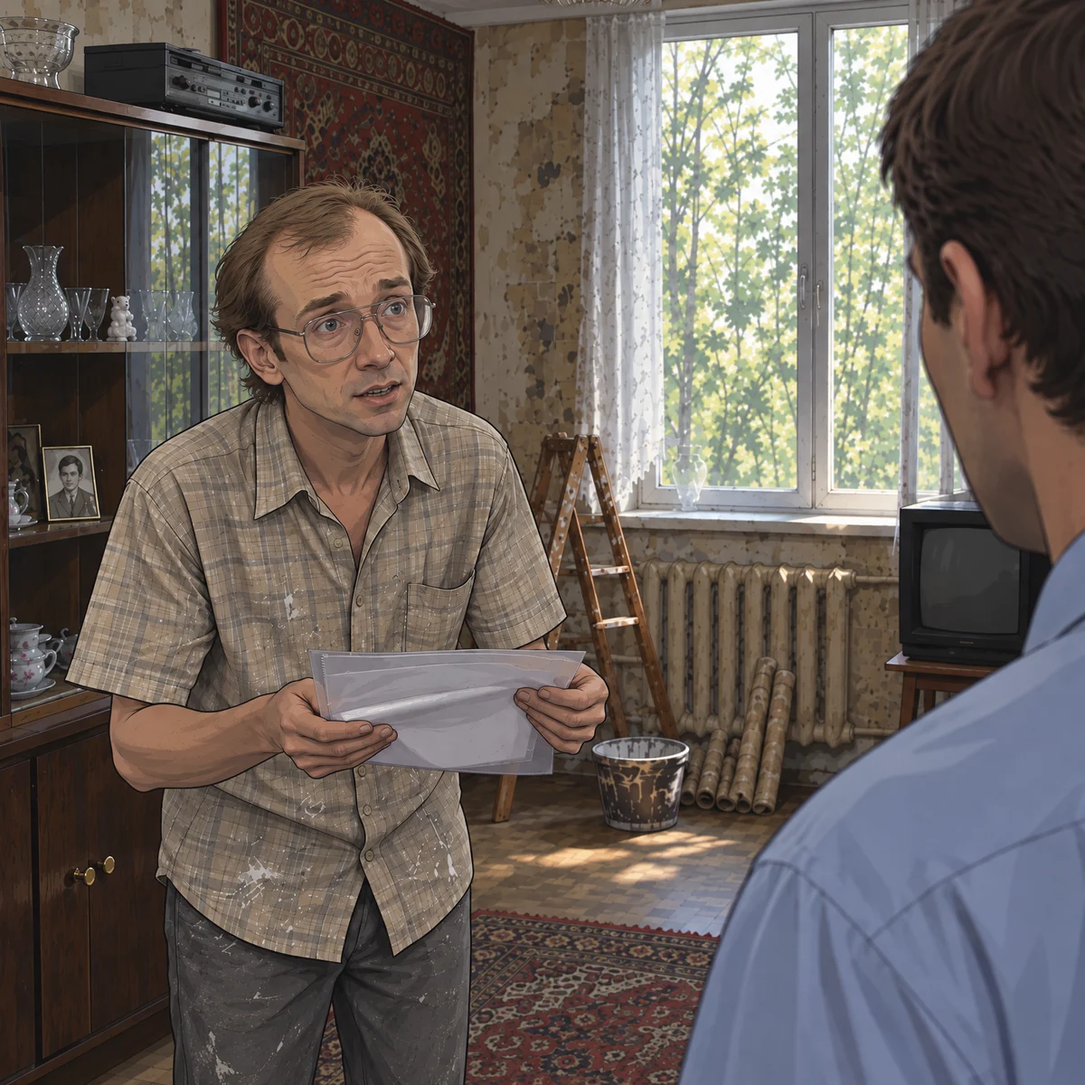
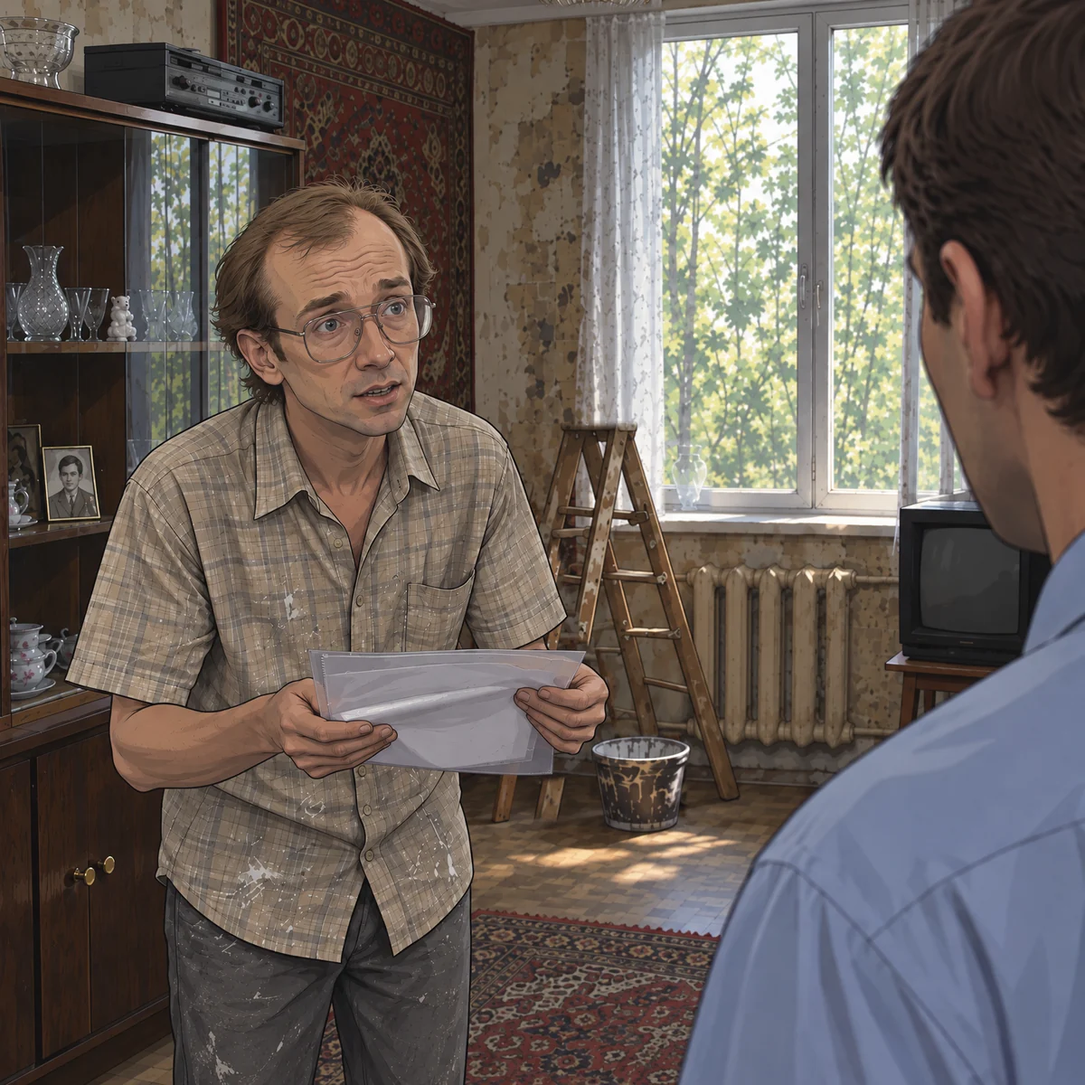
Без курсива и без черты у мыслей; квартира Лапиных: стремянка как в соседних кадрах, без рулонов у батареи
- Курсива нет нигде (решение владельца 2026-10-13): мысли и закадровый голос отличаются цветом,
  у мыслей убрана черта слева; заодно без курсива журнал, пустые слоты, вступление мини-игр и
  нажим допроса. Файлы Tinos Italic удалены из сборки.
- «Воспоминания», квартира Лапиных: в кадре через плечо на Лапина (16:9 и квадрат) приставная
  лестница заменена раскрытой стремянкой, как в кадре с Ириной и на общем плане. Рулоны обоев у
  батареи убраны во всех трёх кадрах и их квадратах. Люди, ведро и папка защищены от правки; ваза на
  подоконнике, которую задела правка, возвращена из исходника. Шесть правок по маске, $0,52.
- memory.py fix: --keep people (маски людей Apple Vision, локально) и --keep x0,y0,x1,y1 —
  что внутри прямоугольника не трогать; --ref — образец предмета из соседнего кадра.

Changed region(s): [[0.4933, 0.37, 0.74, 0.7708], [0.4933, 0.7092, 0.5242, 0.7708]]

diff --git a/runtime/src/ui/styles.css b/runtime/src/ui/styles.css
@@ -1,5 +1,5 @@
 /* ───────────── Шрифты (решение владельца 2026-10-13, макет реплик в Figma): весь интерфейс — Tinos (с засечками, есть
-   кириллица); жирный — только знак «дальше» в окне реплики. Моноширинные DM Mono (латиница) и JetBrains Mono (кириллица)
+   кириллица); начертание обычное, курсива нет (решение владельца 2026-10-13). Моноширинные DM Mono (латиница) и JetBrains Mono (кириллица)
    остались у экранной индикации камеры: дата, REC, отладочный HUD. Файлы лежат в src/ui/fonts (woff2 с Google Fonts,
    лицензии OFL — там же), подгружаются по unicode-range. ───────────── */
 @font-face { font-family: 'DM Mono'; font-style: normal; font-weight: 400; font-display: swap; src: url(./fonts/DMMono-400-latin-ext.woff2) format('woff2'); unicode-range: U+0100-02BA, U+02BD-02C5, U+02C7-02CC, U+02CE-02D7, U+02DD-02FF, U+0304, U+0308, U+0329, U+1D00-1DBF, U+1E00-1E9F, U+1EF2-1EFF, U+2020, U+20A0-20AB, U+20AD-20C4, U+2113, U+2C60-2C7F, U+A720-A7FF; }
@@ -10,8 +10,6 @@
 @font-face { font-family: 'JetBrains Mono'; font-style: normal; font-weight: 400; font-display: swap; src: url(./fonts/JetBrainsMono-400-latin.woff2) format('woff2'); unicode-range: U+0000-00FF, U+0131, U+0152-0153, U+02BB-02BC, U+02C6, U+02DA, U+02DC, U+0304, U+0308, U+0329, U+2000-206F, U+20AC, U+2122, U+2191, U+2193, U+2212, U+2215, U+FEFF, U+FFFD; }
 @font-face { font-family: 'Tinos'; font-style: normal; font-weight: 400; font-display: swap; src: url(./fonts/Tinos-400-cyrillic.woff2) format('woff2'); unicode-range: U+0301, U+0400-045F, U+0490-0491, U+04B0-04B1, U+2116; }
 @font-face { font-family: 'Tinos'; font-style: normal; font-weight: 400; font-display: swap; src: url(./fonts/Tinos-400-latin.woff2) format('woff2'); unicode-range: U+0000-00FF, U+0131, U+0152-0153, U+02BB-02BC, U+02C6, U+02DA, U+02DC, U+0304, U+0308, U+0329, U+2000-206F, U+20AC, U+2122, U+2191, U+2193, U+2212, U+2215, U+FEFF, U+FFFD; }
-@font-face { font-family: 'Tinos'; font-style: italic; font-weight: 400; font-display: swap; src: url(./fonts/Tinos-400i-cyrillic.woff2) format('woff2'); unicode-range: U+0301, U+0400-045F, U+0490-0491, U+04B0-04B1, U+2116; }
-@font-face { font-family: 'Tinos'; font-style: italic; font-weight: 400; font-display: swap; src: url(./fonts/Tinos-400i-latin.woff2) format('woff2'); unicode-range: U+0000-00FF, U+0131, U+0152-0153, U+02BB-02BC, U+02C6, U+02DA, U+02DC, U+0304, U+0308, U+0329, U+2000-206F, U+20AC, U+2122, U+2191, U+2193, U+2212, U+2215, U+FEFF, U+FFFD; }
 @font-face { font-family: 'Tinos'; font-style: normal; font-weight: 700; font-display: swap; src: url(./fonts/Tinos-700-latin.woff2) format('woff2'); unicode-range: U+0000-00FF, U+0131, U+0152-0153, U+02BB-02BC, U+02C6, U+02DA, U+02DC, U+0304, U+0308, U+0329, U+2000-206F, U+20AC, U+2122, U+2191, U+2193, U+2212, U+2215, U+FEFF, U+FFFD; }
 
 /* ───────────── База ───────────── */
@@ -274,13 +272,9 @@ body {
   opacity: 1;
   animation: more-blink 1s steps(2) infinite;
 }
-.vn-textbox[data-style='voiceover'] .vn-textbox__text { font-style: italic; color: #e4dfd1; }
-.vn-textbox[data-style='inner'] .vn-textbox__text {
-  font-style: italic;
-  color: #cfd2d8;
-  padding-left: 0.7em;
-  border-left: 3px solid var(--c-muted);
-}
+/* Закадровый голос и мысли — своим цветом, без курсива и без черты слева (решение владельца 2026-10-13). */
+.vn-textbox[data-style='voiceover'] .vn-textbox__text { color: #e4dfd1; }
+.vn-textbox[data-style='inner'] .vn-textbox__text { color: #cfd2d8; }
 .vn-textbox[data-style='report'] .vn-textbox__text {
   font-family: var(--font-mono);
   font-size: 0.92em;
@@ -1065,7 +1059,7 @@ body {
   border-bottom: 1px solid rgb(255 255 255 / 0.07);
 }
 .vn-log__name { display: block; font: 400 0.9em var(--font-title); }
-.vn-log__item.is-narrate .vn-log__text { font-style: italic; color: #d9d4c7; }
+.vn-log__item.is-narrate .vn-log__text { color: #d9d4c7; }
 .vn-log__item.is-inner .vn-log__text { color: #c4c8cf; }
 .vn-log__item.is-report .vn-log__text { font-family: var(--font-mono); font-size: 0.92em; }
 .vn-log__back {
@@ -1099,7 +1093,6 @@ body {
 .vn-slot:disabled { cursor: default; opacity: 0.55; }
 .vn-slot__label { font-weight: 400; }
 .vn-slot__info { font-size: 0.85em; color: var(--c-muted); }
-.vn-slot.is-empty .vn-slot__info { font-style: italic; }
 .vn-confirm {
   margin-top: 0.8rem;
   padding: 0.6rem 0.9rem;
@@ -1222,7 +1215,7 @@ body {
 .mg-gb__tag { margin: 0 0 0.3rem; font: 0.75em var(--font-mono); letter-spacing: 0.08em; text-transform: uppercase; color: var(--c-muted); }
 .mg-gb__title { margin: 0 0 0.4rem; font: 400 1.6em / 1.1 var(--font-title); }
 .mg-gb__brief { margin: 0 0 0.5rem; }
-.mg-gb__intro { margin: 0 0 0.6rem; padding-left: 0.7rem; font-style: italic; color: #d4d0c6; border-left: 3px solid var(--c-accent-soft); }
+.mg-gb__intro { margin: 0 0 0.6rem; padding-left: 0.7rem; color: #d4d0c6; border-left: 3px solid var(--c-accent-soft); }
 .mg-gb__cfg {
   display: grid;
   grid-template-columns: minmax(8rem, auto) 1fr;
@@ -1410,8 +1403,7 @@ body {
   .vn-loading,
   .vn-toast,
   .vn-cap--location,
-  .vn-cap--lower_third,
-  .vn-textbox[data-style='inner'] .vn-textbox__text {
+  .vn-cap--lower_third {
     border: 0;
     box-shadow: none;
   }
@@ -1435,7 +1427,6 @@ body {
   .vn-chip.is-on { background: rgb(218 24 24 / 0.4); }
   .mg-btn.is-success { background: rgb(79 125 74 / 0.35); }
   .mg-btn.is-fail { background: rgb(138 58 53 / 0.35); }
-  .vn-textbox[data-style='inner'] .vn-textbox__text { padding-left: calc(5em / 15); }
   /* Дедукция без обводок: подсказка — тёплая подложка и значок, пустые точки шкалы — тусклая заливка, а не кольцо. */
   .vn-choice.is-hint { background: rgb(232 217 181 / 0.16); }
   .vn-choices__dot { border: 0; background: rgb(255 255 255 / 0.22); }

diff --git a/runtime/tests/css_contract.test.ts b/runtime/tests/css_contract.test.ts
@@ -175,7 +175,7 @@ describe('интерфейс: документальная эстетика, mob
     expect(uiCss).toMatch(/\.vn-textbox__title\s*\{\s*font-size:\s*calc\(10em \/ 15\);\s*opacity:\s*0\.7;\s*\}/);
     expect(uiCss).toMatch(/--font-body:\s*'Tinos'/);
     expect(uiCss).toMatch(/--panel-line:\s*rgb\(255 255 255 \/ 0\.28\)/);
-    expect((uiCss.match(/@font-face \{ font-family: 'Tinos'/g) ?? []).length).toBe(5); // свои woff2, без Google Fonts в рантайме
+    expect((uiCss.match(/@font-face \{ font-family: 'Tinos'/g) ?? []).length).toBe(3); // свои woff2, без Google Fonts в рантайме; курсива нет
     // Размытие — только у оверлеев выбора и документа по макетам 2026-10-13 и только при мыши: на телефоне дорого.
     const blur = /@media \(hover: hover\) and \(pointer: fine\) \{\s*\.vn-document,\s*\.vn-choices\s*\{([^}]*)\}\s*\}/.exec(uiCss);
     expect(blur?.[1]).toMatch(/background:\s*rgb\(0 0 0 \/ 0\.6\);[\s\S]*backdrop-filter:\s*blur\(5px\)/);
@@ -194,6 +194,16 @@ describe('интерфейс: документальная эстетика, mob
       expect(css).not.toMatch(/font-weight:\s*(?:[5-9]00|bold)/);
       expect(css).not.toMatch(/font:\s*(?:[5-9]00|bold)\s/);
     }
+  });
+
+  it('курсива нет нигде (решение владельца 2026-10-13): мысли и закадровый голос — своим цветом, у мыслей нет черты слева', () => {
+    const cssOf = (dir: string): string[] => {
+      const d = join(HERE, '..', 'src', dir);
+      return readdirSync(d).filter((f) => f.endsWith('.css')).map((f) => readFileSync(join(d, f), 'utf8'));
+    };
+    for (const css of [uiCss, stageCss, ...cssOf('minigames'), ...cssOf('case')]) expect(css).not.toMatch(/italic|oblique/);
+    expect(uiCss).toMatch(/\.vn-textbox\[data-style='inner'\] \.vn-textbox__text \{ color: #cfd2d8; \}/);
+    expect(uiCss).toMatch(/\.vn-textbox\[data-style='voiceover'\] \.vn-textbox__text \{ color: #e4dfd1; \}/);
   });
 
   it('без скруглений (решение владельца 2026-10-13): круглые только портрет у имени, экран-кинескоп меню, лампа REC, номер варианта, крестик документа, номера и попытки осмотра (макеты 2026-10-13)', () => {

diff --git a/runtime/src/minigames/interrogation_press.css b/runtime/src/minigames/interrogation_press.css
@@ -240,7 +240,6 @@
 .mg-ip__press {
   margin: 0.6em 0 0;
   padding-left: 0.7em;
-  font-style: italic;
   color: #cfd2d8;
   border-left: 3px solid var(--c-muted);
 }

diff --git a/runtime/src/minigames/mg_shell.css b/runtime/src/minigames/mg_shell.css
@@ -52,7 +52,6 @@
   margin: 0;
   padding-left: 0.65rem;
   color: #e2ddd0;
-  font-style: italic;
   border-left: 3px solid var(--mg-gold);
 }
 .mg-shell__brief {

diff --git a/tools/hod/memory.py b/tools/hod/memory.py
@@ -508,11 +508,31 @@ def square(sid: str) -> None:
         os.path.join(RAW, 'squares'))
 
 
-def fix(target: str, box: str, what: str) -> None:
+def keep_mask(raw: str, keep: list[str]) -> Image.Image:
+    """Что правка по маске не трогает: 'people' — все люди на кадре (Apple Vision локально, с запасом 8 px вокруг силуэта),
+    'x0,y0,x1,y1' — прямоугольник (предмет перед правкой: ведро, папка в руке)."""
+    import tempfile
+    from PIL import ImageChops, ImageDraw, ImageFilter
+    size = Image.open(raw).size
+    out = Image.new('L', size, 0)
+    for k in keep:
+        if k == 'people':
+            with tempfile.TemporaryDirectory() as tmp:
+                subprocess.run(['swift', os.path.join(ROOT, 'tools/hod/person_masks.swift'), raw, tmp], check=True, capture_output=True)
+                for name in os.listdir(tmp):
+                    m = Image.open(os.path.join(tmp, name)).convert('L').resize(size)
+                    out = ImageChops.lighter(out, m.point(lambda v: 255 if v > 64 else 0).filter(ImageFilter.MaxFilter(17)))
+        else:
+            ImageDraw.Draw(out).rectangle(tuple(int(v) for v in k.split(',')), fill=255)
+    return out
+
+
+def fix(target: str, box: str, what: str, keep: list[str] = (), ref: str = '') -> None:
     """Правка по маске (sunburst): перерисовать только прямоугольник box кадра (<кадр> или <кадр>.square), остальное —
-    пиксель в пиксель; первый вариант кадра сохраняется рядом как .orig.png."""
+    пиксель в пиксель; первый вариант кадра сохраняется рядом как .orig.png. keep — что внутри прямоугольника не трогать
+    (keep_mask); ref — картинка-образец предмета (тот же предмет в другом кадре сета)."""
     import shutil
-    from PIL import ImageDraw, ImageFilter
+    from PIL import ImageChops, ImageDraw, ImageFilter, ImageOps
     sid = target.removesuffix('.square')
     raw = os.path.join(RAW, 'squares' if target.endswith('.square') else 'scenes', f'{target}.png')
     orig = raw[:-4] + '.orig.png'
@@ -520,20 +540,32 @@ def fix(target: str, box: str, what: str) -> None:
         shutil.copy(raw, orig)
     x0, y0, x1, y1 = (int(v) for v in box.split(','))
     src = Image.open(raw).convert('RGB')
+    kept = keep_mask(raw, list(keep)) if keep else None
     mask = Image.new('RGBA', src.size, (0, 0, 0, 255))
     ImageDraw.Draw(mask).rectangle((x0, y0, x1, y1), fill=(0, 0, 0, 0))  # прозрачное — что перерисовать
+    if kept:
+        mask.paste((0, 0, 0, 255), mask=kept)
     os.makedirs(os.path.join(RAW, 'fix'), exist_ok=True)
     mpath = os.path.join(RAW, 'fix', f'{target}.mask.png')
     mask.save(mpath)
-    who, sheets = people(shot_info(sid)[2], 2)
-    prompt = (f'Edit only the transparent masked rectangle of image 1; everything outside it stays exactly as it is. Inside the '
-              f'rectangle: {what} Keep exactly the same drawing style, ink line weight, cel shading, palette and light as the '
-              f'rest of image 1, so the edit is invisible.' + (f' Character turnaround sheets for identity: {who}.' if sheets else ''))
-    out = gen(f'{target}.fix', prompt, [raw, *sheets], f'{src.size[0]}x{src.size[1]}', os.path.join(RAW, 'fix'), mask=mpath)
+    # Люди под защитой — лица не перерисовываются, листы персонажей не нужны.
+    who, sheets = ('', []) if 'people' in keep else people(shot_info(sid)[2], 2)
+    prompt = (f'Edit only the transparent masked area of image 1; everything outside it stays exactly as it is. Inside the '
+              f'area: {what} Keep exactly the same drawing style, ink line weight, cel shading, palette and light as the '
+              f'rest of image 1, so the edit is invisible.'
+              + (' People and objects that stay outside the area are in front: paint behind them, never over them.' if kept else '')
+              + (' Image 2 shows the same object in this room from another shot: draw it exactly like that, seen from this '
+                 'camera.' if ref else '')
+              + (f' Character turnaround sheets for identity: {who}.' if sheets else ''))
+    out = gen(f'{target}.fix', prompt, [raw, *([ref] if ref else []), *sheets], f'{src.size[0]}x{src.size[1]}',
+              os.path.join(RAW, 'fix'), mask=mpath)
     fixed = Image.open(out).convert('RGB').resize(src.size)
     soft = Image.new('L', src.size, 0)
     ImageDraw.Draw(soft).rectangle((x0 + 6, y0 + 6, x1 - 6, y1 - 6), fill=255)
-    Image.composite(fixed, src, soft.filter(ImageFilter.GaussianBlur(4))).save(raw)
+    soft = soft.filter(ImageFilter.GaussianBlur(4))
+    if kept:
+        soft = ImageChops.multiply(soft, ImageOps.invert(kept.filter(ImageFilter.GaussianBlur(2))))
+    Image.composite(fixed, src, soft).save(raw)
     print('исправлено', raw)
 
 
@@ -559,8 +591,17 @@ if __name__ == '__main__':
     elif cmd in ('scene', 'square', 'accept'):
         for sid in args:
             {'scene': scene, 'square': square, 'accept': accept}[cmd](sid)
-    elif cmd == 'fix':  # fix <кадр>[.square] x0,y0,x1,y1 "что исправить"
-        fix(args[0], args[1], args[2])
+    elif cmd == 'fix':  # fix <кадр>[.square] x0,y0,x1,y1 "что исправить" [--keep people|x0,y0,x1,y1 ...] [--ref картинка]
+        rest, keep, ref = args[3:], [], ''
+        while rest:
+            flag, val, rest = rest[0], rest[1], rest[2:]
+            if flag == '--keep':
+                keep.append(val)
+            elif flag == '--ref':
+                ref = val
+            else:
+                sys.exit(f'fix: непонятный ключ {flag}')
+        fix(args[0], args[1], args[2], keep, ref)
     elif cmd == 'prompt':  # prompt <кадр> — промпт кадра и картинки; prompt <персонаж> head|body — лист
         if args[0] in STAGING:
             text, files = scene_inputs(args[0])

diff --git a/docs/architecture/03-visual-language.md b/docs/architecture/03-visual-language.md
@@ -111,7 +111,8 @@
   (±25 %, без случайности), после точки рука замирает в 6 раз дольше, после запятой — в 3; в среднем реплика печатается
   за то же время, что ровная печать на выбранной скорости. Когда реплика допечатана, в плашке мигает белый «>»
   (в макете — красный на 20 %; белый на 40 % — решение владельца 2026-10-13).
-  Рассказчик — без строки говорящего, курсивом; субтитр (хроника, суд) — по центру, без полос и плашки, только «>».
+  Рассказчик — без строки говорящего; мысли и закадровый голос отличаются цветом, без курсива и без черты слева
+  (решение владельца 2026-10-13); субтитр (хроника, суд) — по центру, без полос и плашки, только «>».
   Размеры макета даны для кегля 15 px и пересчитаны в em от нашего кегля (≥ 16 px на телефоне, ≥ 20 px на десктопе).
 - **Предупреждение, выбор и документ** (решение владельца 2026-10-13, макеты в Figma: файл Claude, узлы 1232:1612,
   1232:1660, 1232:1560). Предупреждение «Основано на реальных событиях» — на чёрном фоне, к низу красном, логотип
@@ -148,15 +149,15 @@
 Решение владельца (2026-10-13, макет реплик): весь интерфейс и текст новеллы печатаются **Tinos** (Google Fonts, SIL
 OFL; шрифт с засечками, кириллица и латиница). Прежние моноширинные **DM Mono** (латиница) и **JetBrains Mono**
 (кириллица, выбор по `html[lang]`) остались только у экранной индикации камеры. Шрифты лежат в сборке рантайма
-(`runtime/src/ui/fonts`, woff2 с `unicode-range`). **Шрифт всегда обычный** (решение владельца 2026-10-12); единственный
-жирный — знак «>» в окне реплики, он есть в макете. Синтез жирного и курсива выключен (`font-synthesis: none`), курсив —
-настоящий Tinos Italic.
+(`runtime/src/ui/fonts`, woff2 с `unicode-range`). **Шрифт всегда обычный** (решение владельца 2026-10-12), **курсива нет
+нигде** (решение владельца 2026-10-13): мысли и закадровый голос отличаются цветом. Знак «>» в окне реплики — рисунок
+из макета, не буква. Синтез жирного и курсива выключен (`font-synthesis: none`).
 
 | Роль | Шрифт | Заметки |
 |---|---|---|
 | реплики, основной текст, кнопки, меню | Tinos 400 | кегль ≥ 16 CSS px на мобильном, ≥ 20 на десктопе |
 | заголовки, титры, названия эпизодов | Tinos 400 | один шрифт на всё |
-| мысли, закадровый голос | Tinos 400 italic | |
+| мысли, закадровый голос | Tinos 400 | свой цвет, без курсива |
 | date_stamp, REC, отладочный HUD (индикация камеры) | DM Mono 400 (ru — JetBrains Mono 400) | стилизуется сканлайнами и цветом |
 | документы | настоящие бумаги картинкой (решение владельца 2026-10-13): машинопись, от руки, штампы, печати, ксерокопия; текст впечатан, пока по-русски | промпты — `tools/hod/docs.py`; бланк с текстом-слоем — только у старых бумаг |
 

diff --git a/runtime/README.md b/runtime/README.md
@@ -400,8 +400,8 @@ assets/<папка эпизода>/voice/<язык>/<id клипа>.<ext>       
 
 ## Сборка, бюджет, Playgama
 
-- `npm run build` → `dist/`: `index.html` в корне, относительные пути, латиница в именах, шрифты (Tinos — обычный и курсив, кириллица и
-  латиница, жирная латиница для «>»; DM Mono и JetBrains Mono 400 для индикации камеры; woff2 с `unicode-range` из `src/ui/fonts`,
+- `npm run build` → `dist/`: `index.html` в корне, относительные пути, латиница в именах, шрифты (Tinos — обычный, кириллица и
+  латиница, и жирная латиница; DM Mono и JetBrains Mono 400 для индикации камеры; woff2 с `unicode-range` из `src/ui/fonts`,
   лицензии OFL рядом) внутри сборки. Эпизод и локали копируются как статические файлы
   (`episodes/s1/ep01_murylev.json`, `locales/<lang>/*.json`) плюс сгенерированный `episodes/index.json`. Файлы и
   папки, начинающиеся с `_` или `.`, в сборку не попадают. Картинки и звук из `../assets` копируются в `dist/assets/<папка>/…`
